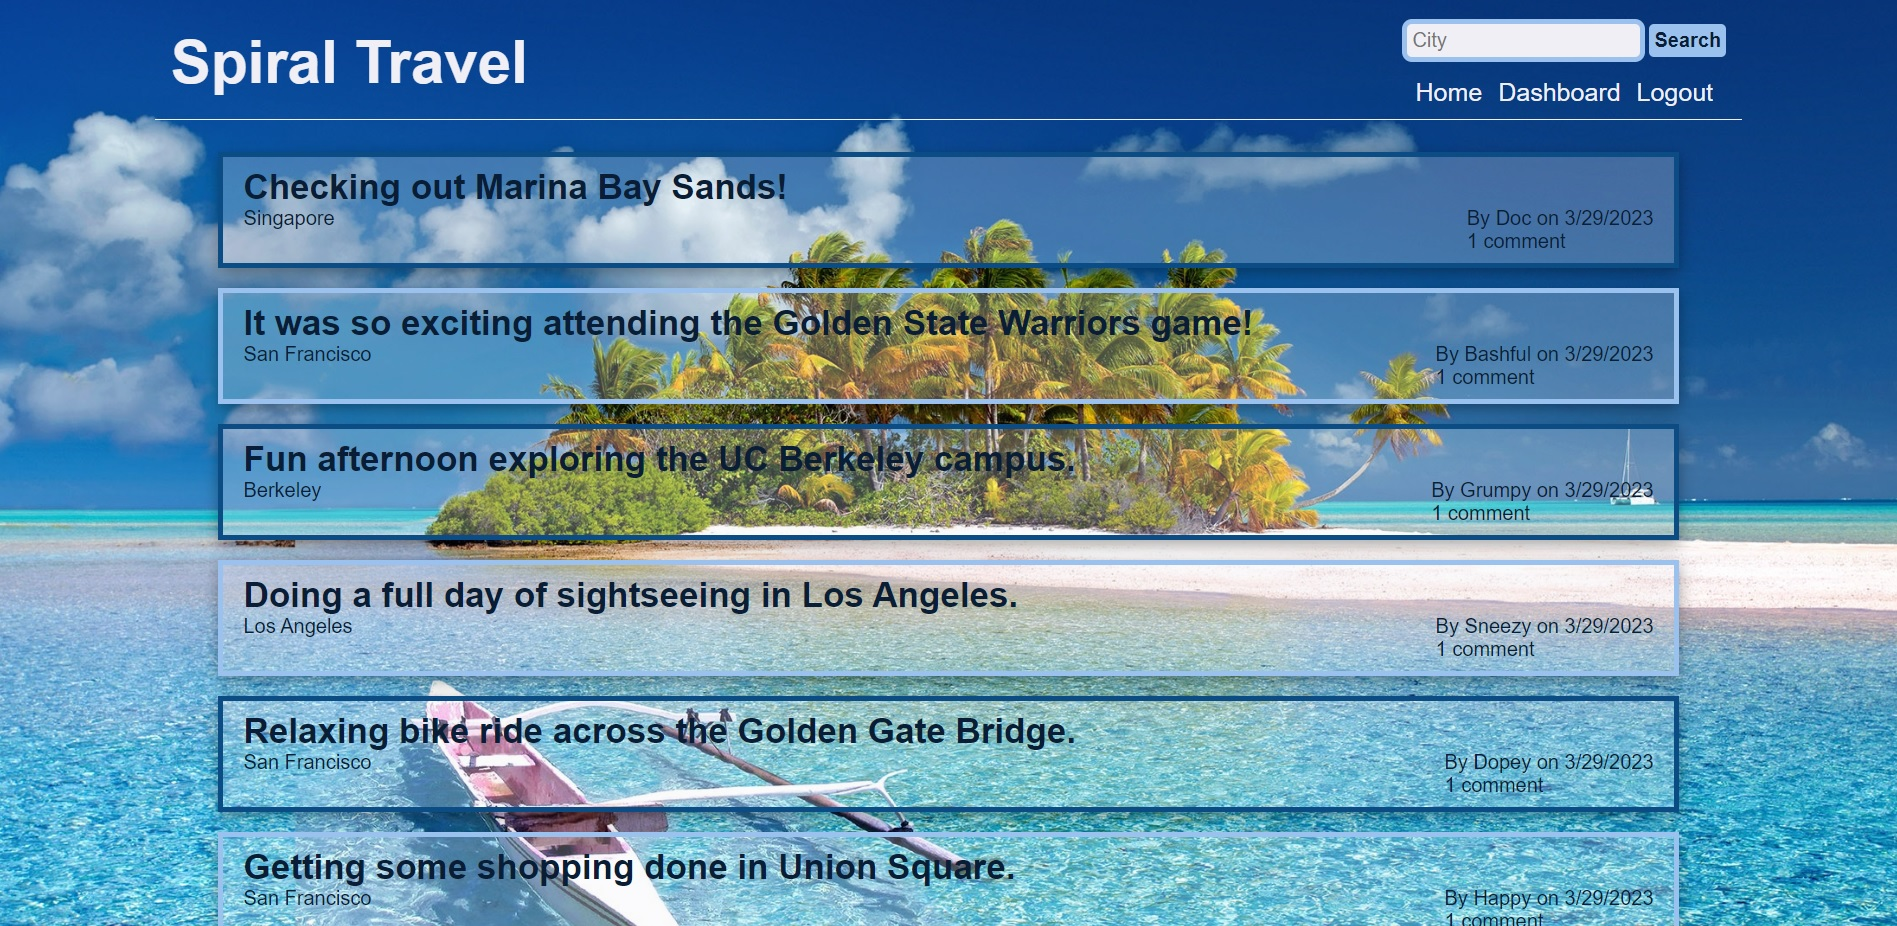
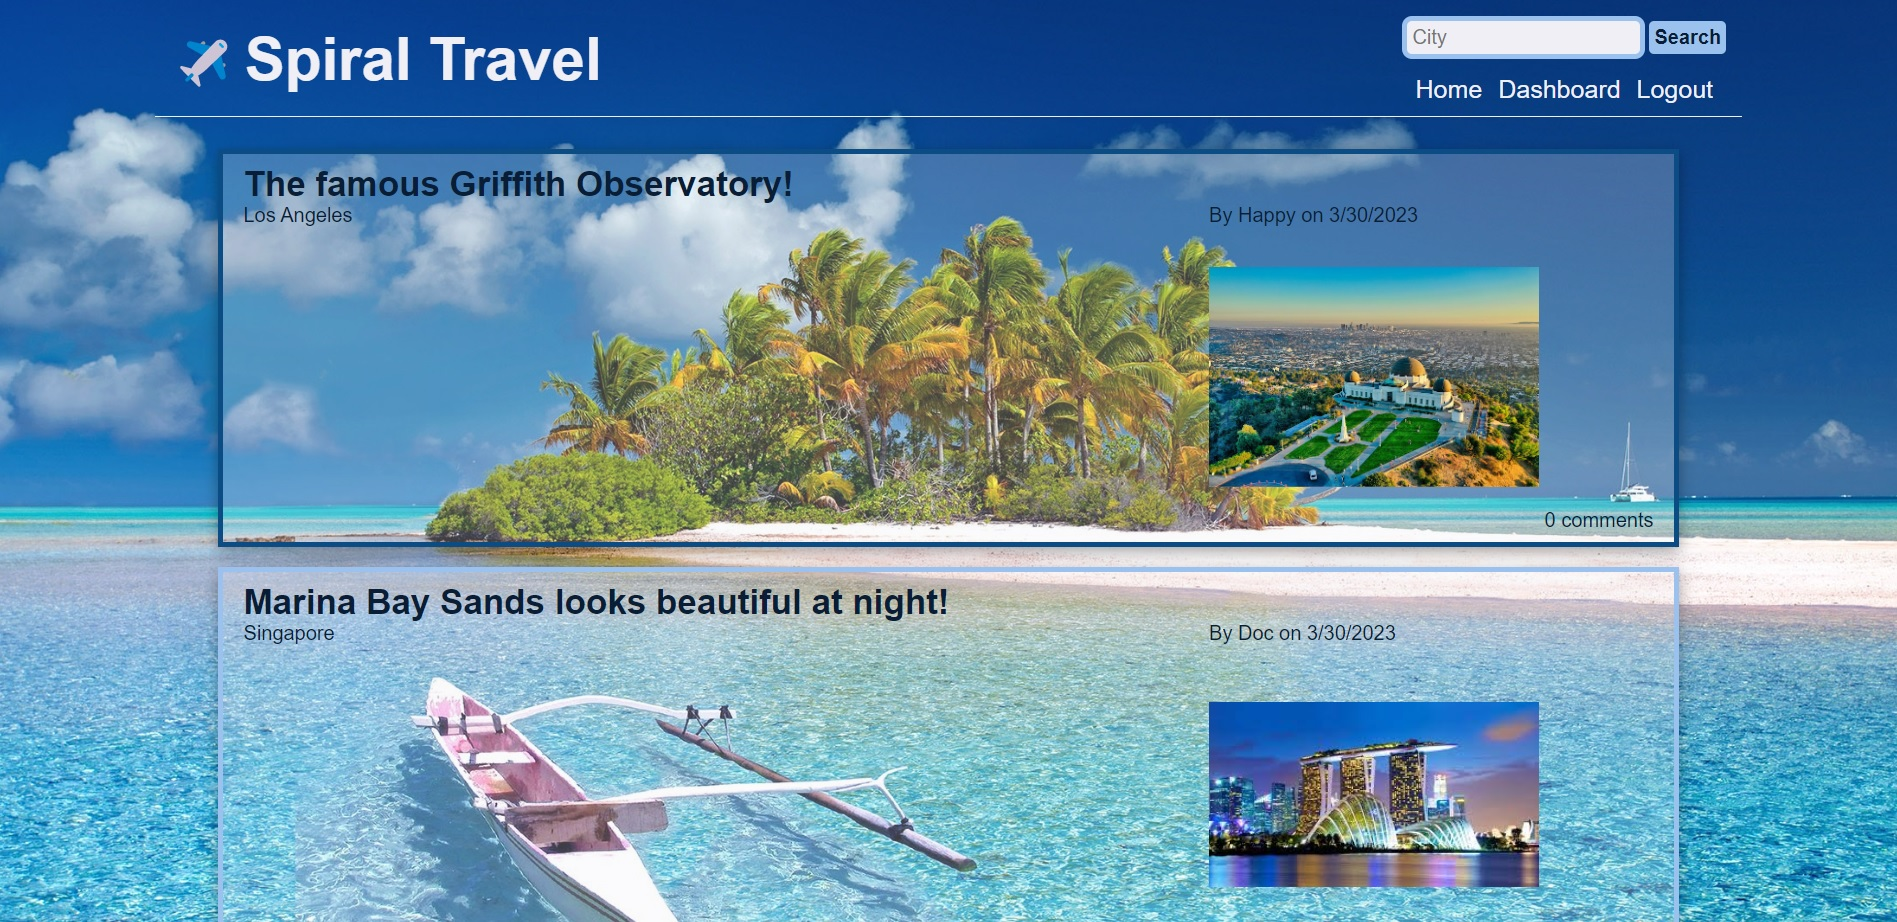
Updated screenshots and video link in README

diff --git a/README.md b/README.md
@@ -68,7 +68,7 @@ In summary, Spiral Travel offers users the opportunity to share their travel exp
 
 ## Demo
 
-[Spiral Travel](https://watch.screencastify.com/v/3sCFdJQA8HgEXdE5Fs3K)
+[Spiral Travel](https://drive.google.com/file/d/1nky-7eQcC-Z6Eg9BPn90dkGalzIh9TtP/view)
 
 ## Links
 
